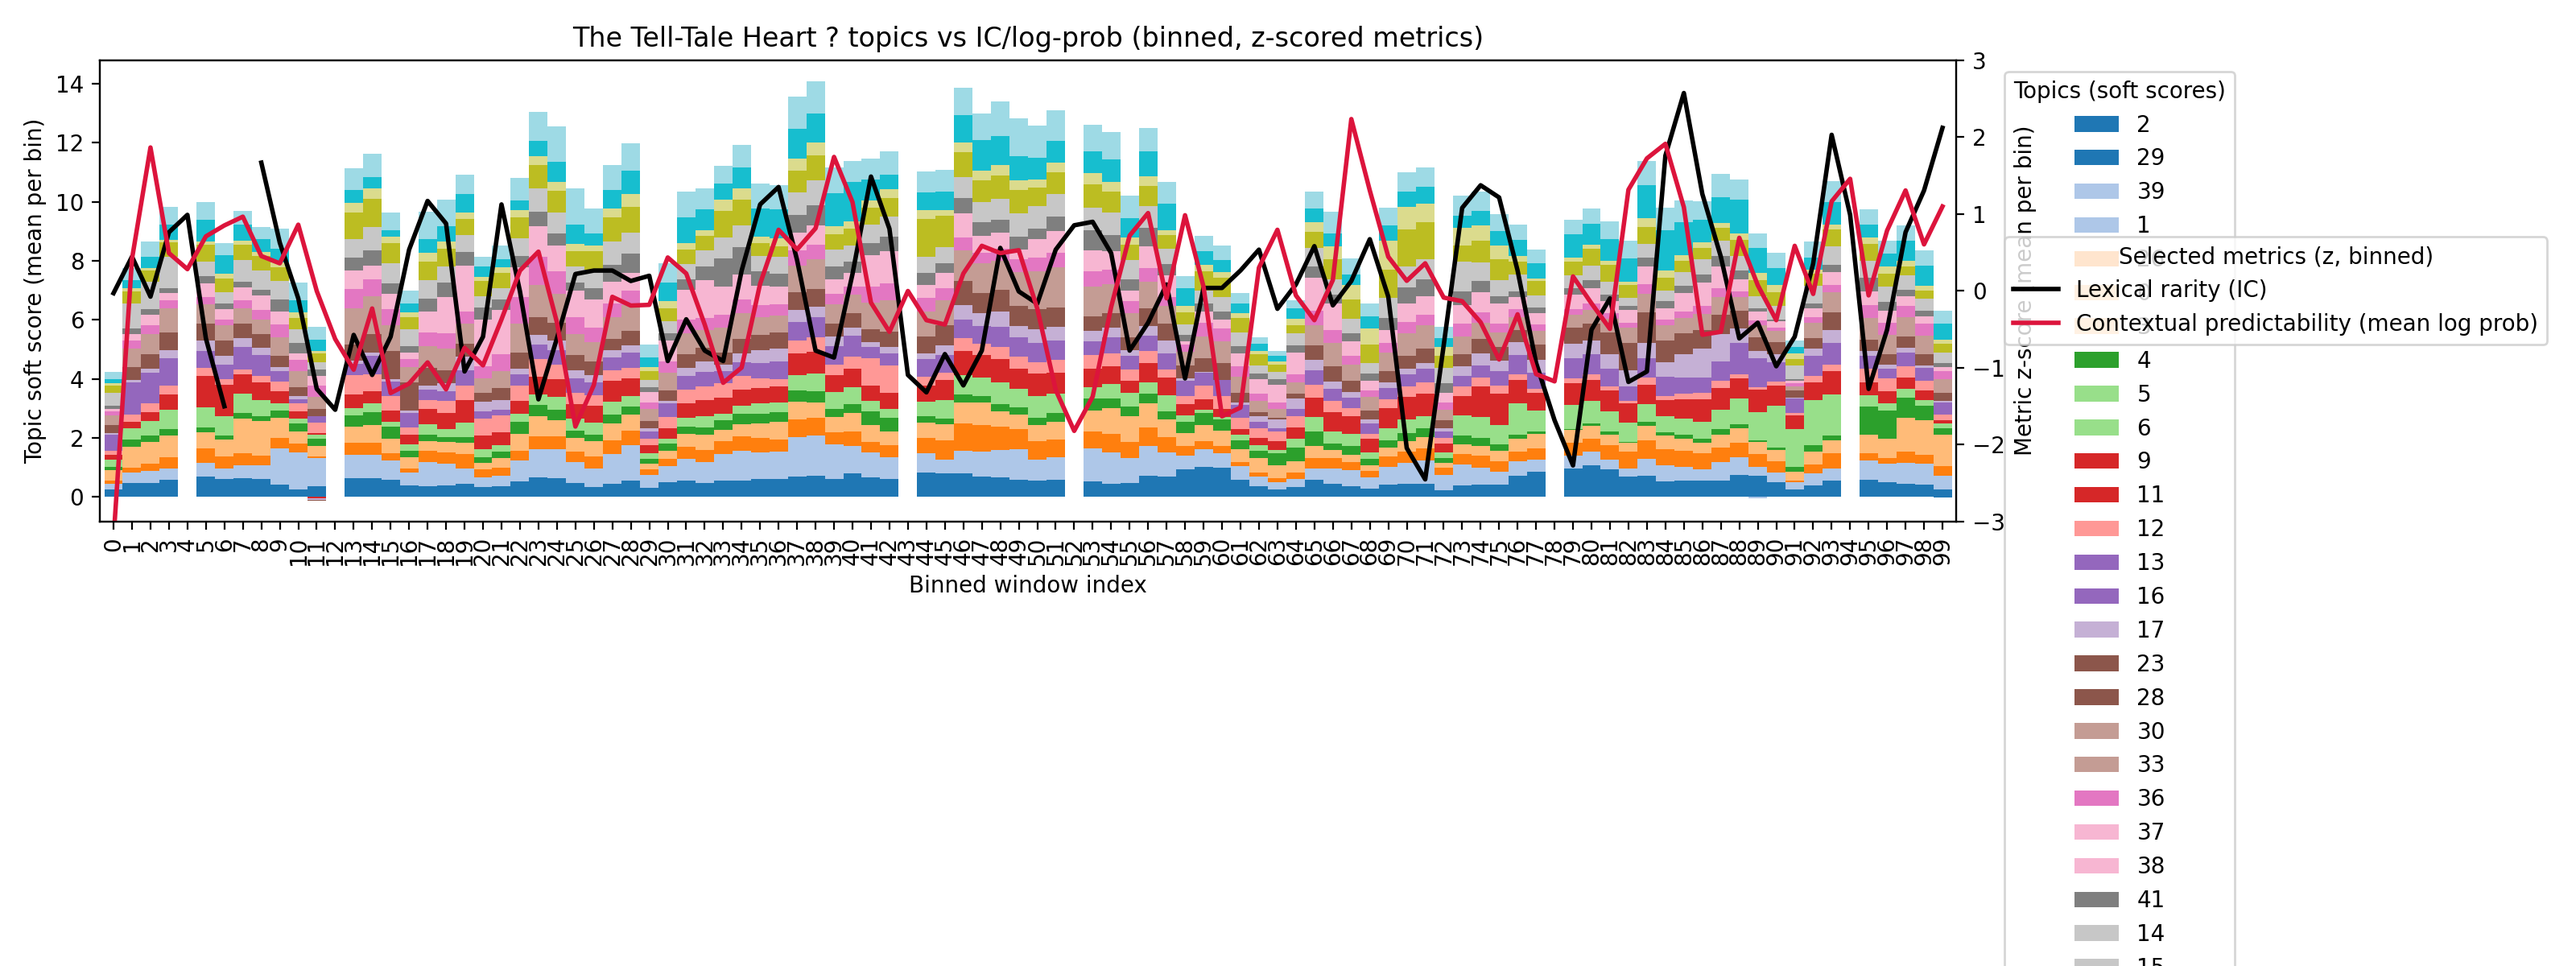
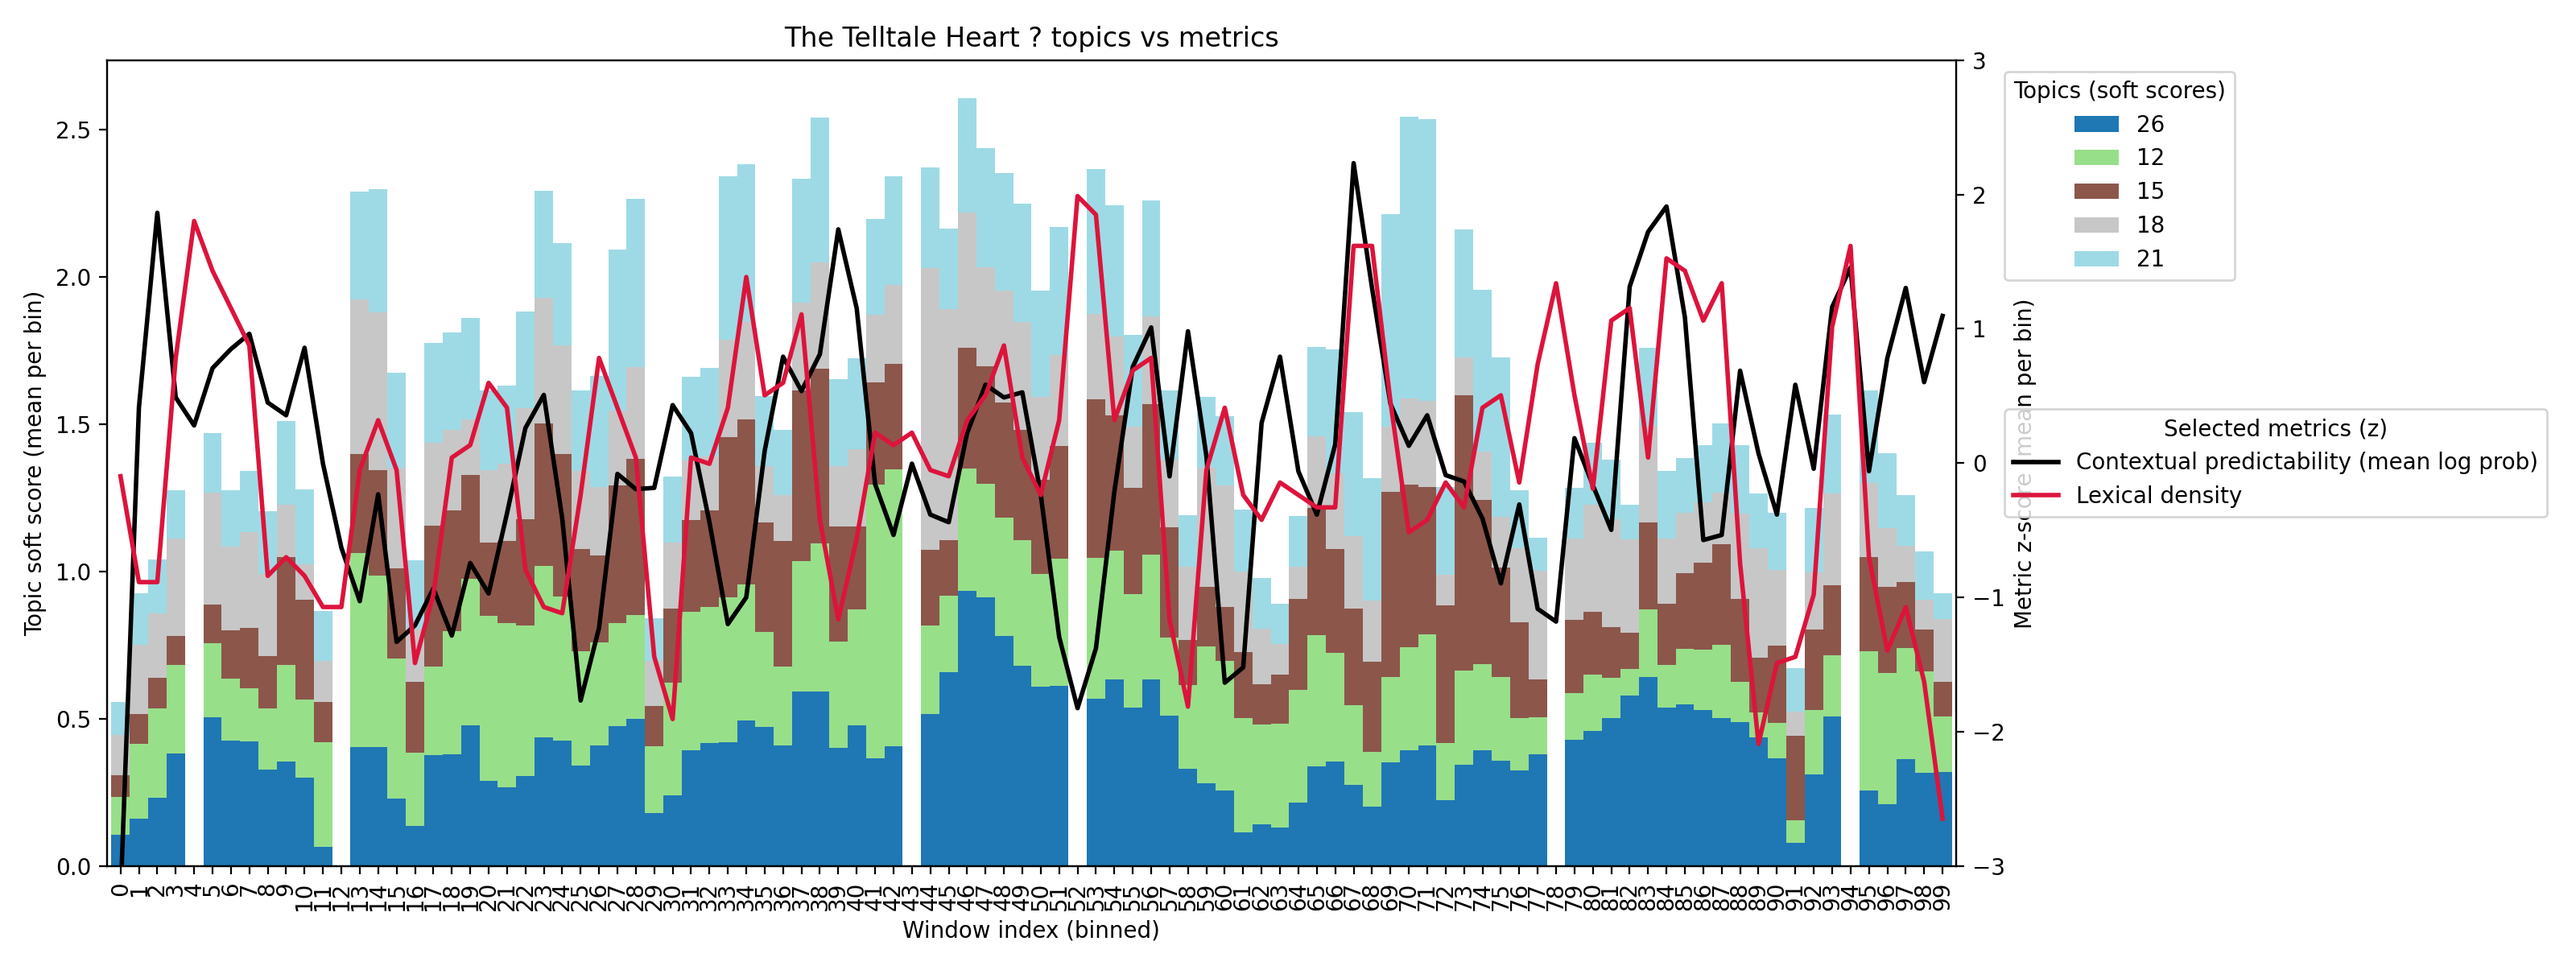
test

diff --git a/README.md b/README.md
@@ -120,8 +120,8 @@ Together, these metrics support a multi-layer alignment analysis: *what* is emph
 
 ![The Black Cat - topics vs IC/log-prob (|r| >= 0.4)](data/analytics/dashboard/short_stories/the_black_cat/the_black_cat_topic_ic_logprob_r04.png)
 
-- Stacked soft topic scores per window; right axis: z-scored metrics (lexical rarity, mean log-probability); topics filtered to |r| >= 0.4 with either metric.
-- Topics visible:
+- Stacked soft topic scores per window (top 5 topics by |r| for the selected metrics); right axis: z-scored metrics (lexical rarity, mean log-probability); topics filtered to |r| >= 0.4 with either metric.
+- Topics visible (keywords):
   - Topic 2 - run; run fail; fail; fail anger; anger; anger run; near; new feeling
   - Topic 3 - tomorrow die; tomorrow; die; today want; today; happen; happen free; soul horrible
   - Topic 21 - man; love; love animal; animal; learn; man quite; young marry; somet love
@@ -141,16 +141,16 @@ Together, these metrics support a multi-layer alignment analysis: *what* is emph
 
 ![A Clockwork Orange - topics vs IC/log-prob](data/analytics/dashboard/novellas/a_clockwork_orange/a_clockwork_orange_topic_ic_logprob.png)
 
-- Stacked soft topic scores per binned window (mean per bin); right axis: z-scored metrics (lexical rarity, mean log-probability); topics plotted: 48, 50.
+- Stacked soft topic scores per binned window (mean per bin); right axis: z-scored metrics (average word frequency, contingency connectives); topics plotted: top 2 by |r| for these metrics.
 - Topics visible (keywords):
   - Topic 48 - old; dim; old baboochkas; round; sud; baboochkas; lad; buy
-  - Topic 50 - say georgie; lad; say; georgie; georgieboy; dim; buy; right right (low correlation with target metrics)
-- Observation: correlations to IC/log-prob are modest; main trend is positional/lexical shifts for Topics 48/50.
+  - Topic 50 - say georgie; lad; say; georgie; georgieboy; dim; buy; right right
+- Observation: correlations to the chosen metrics are modest; main trend is positional/lexical shifts for Topics 48/50.
 
 #### Top correlations (|r| >= 0.3)
 
-- Topic 48 - r=-0.36 across sentence_index and lexical windows (avg_word_freq_window, information_content_window, lexical_density_window); keywords: old; dim; old baboochkas; round; sud; baboochkas; lad; buy. Interpretation: this motif appears in earlier windows with distinct lexical rarity/frequency patterns.
-- Topic 50 - r=-0.31 across sentence_index and lexical windows; keywords: say georgie; lad; say; georgie; georgieboy; dim; buy; right right. Interpretation: another positional/lexical shift, modest effect size.
+- Topic 48 - r=-0.36 across sentence_index and lexical/IC windows (avg_word_freq_window, information_content_window, lexical_density_window); keywords: old; dim; old baboochkas; round; sud; baboochkas; lad; buy. Interpretation: motif appears earlier with distinct lexical rarity/frequency patterns.
+- Topic 50 - r=-0.31 across sentence_index and lexical/IC windows; keywords: say georgie; lad; say; georgie; georgieboy; dim; buy; right right. Interpretation: positional/lexical shift, modest effect size.
 
 ### The Tell-Tale Heart
 
@@ -158,10 +158,10 @@ Together, these metrics support a multi-layer alignment analysis: *what* is emph
 
 ![The Tell-Tale Heart - topics vs IC/log-prob](data/analytics/dashboard/short_stories/the_telltale_heart/the_telltale_heart_topic_ic_logprob.png)
 
-- Stacked soft topic scores per binned window (mean per bin); right axis: z-scored metrics (lexical rarity, mean log-probability); topics filtered to |r| >= 0.3 with either metric.
-- Topics visible: multiple active topics; plot highlights those meeting the metric filter (e.g., Topic 36).
+- Stacked soft topic scores per binned window (mean per bin); right axis: z-scored metrics (lexical density, mean log-probability); topics filtered to |r| >= 0.3 with either metric and top 5 by |r|.
+- Topics visible: multiple active topics (e.g., Topic 36) that meet the filter.
 
 #### Top correlations (|r| >= 0.3)
 
-- Topic 36 - sum_log_prob down (r=-0.52) across info_content/log_prob blocks; num_tokens up (r≈+0.50); keywords: eye; eye evil; kill eye; man feel; evil; feel kill; evil eye; sleep. Interpretation: “evil eye” motif co-occurs with longer, less probable spans, boosting token counts and lowering log-probability.
+- Topic 36 - sum_log_prob down (r=-0.52) across info_content/log_prob blocks; token counts up (r≈+0.50); keywords: eye; eye evil; kill eye; man feel; evil; feel kill. Interpretation: “evil eye” motif co-occurs with longer, less probable spans, boosting token counts and lowering log-probability.
 - Topic 23 - explicit_connectives up (r=+0.47); keywords: plan; madman plan; madman; mad madman; think mad; think; mad; plan week. Interpretation: “madman plan” motif uses more explicit discourse connectives.
